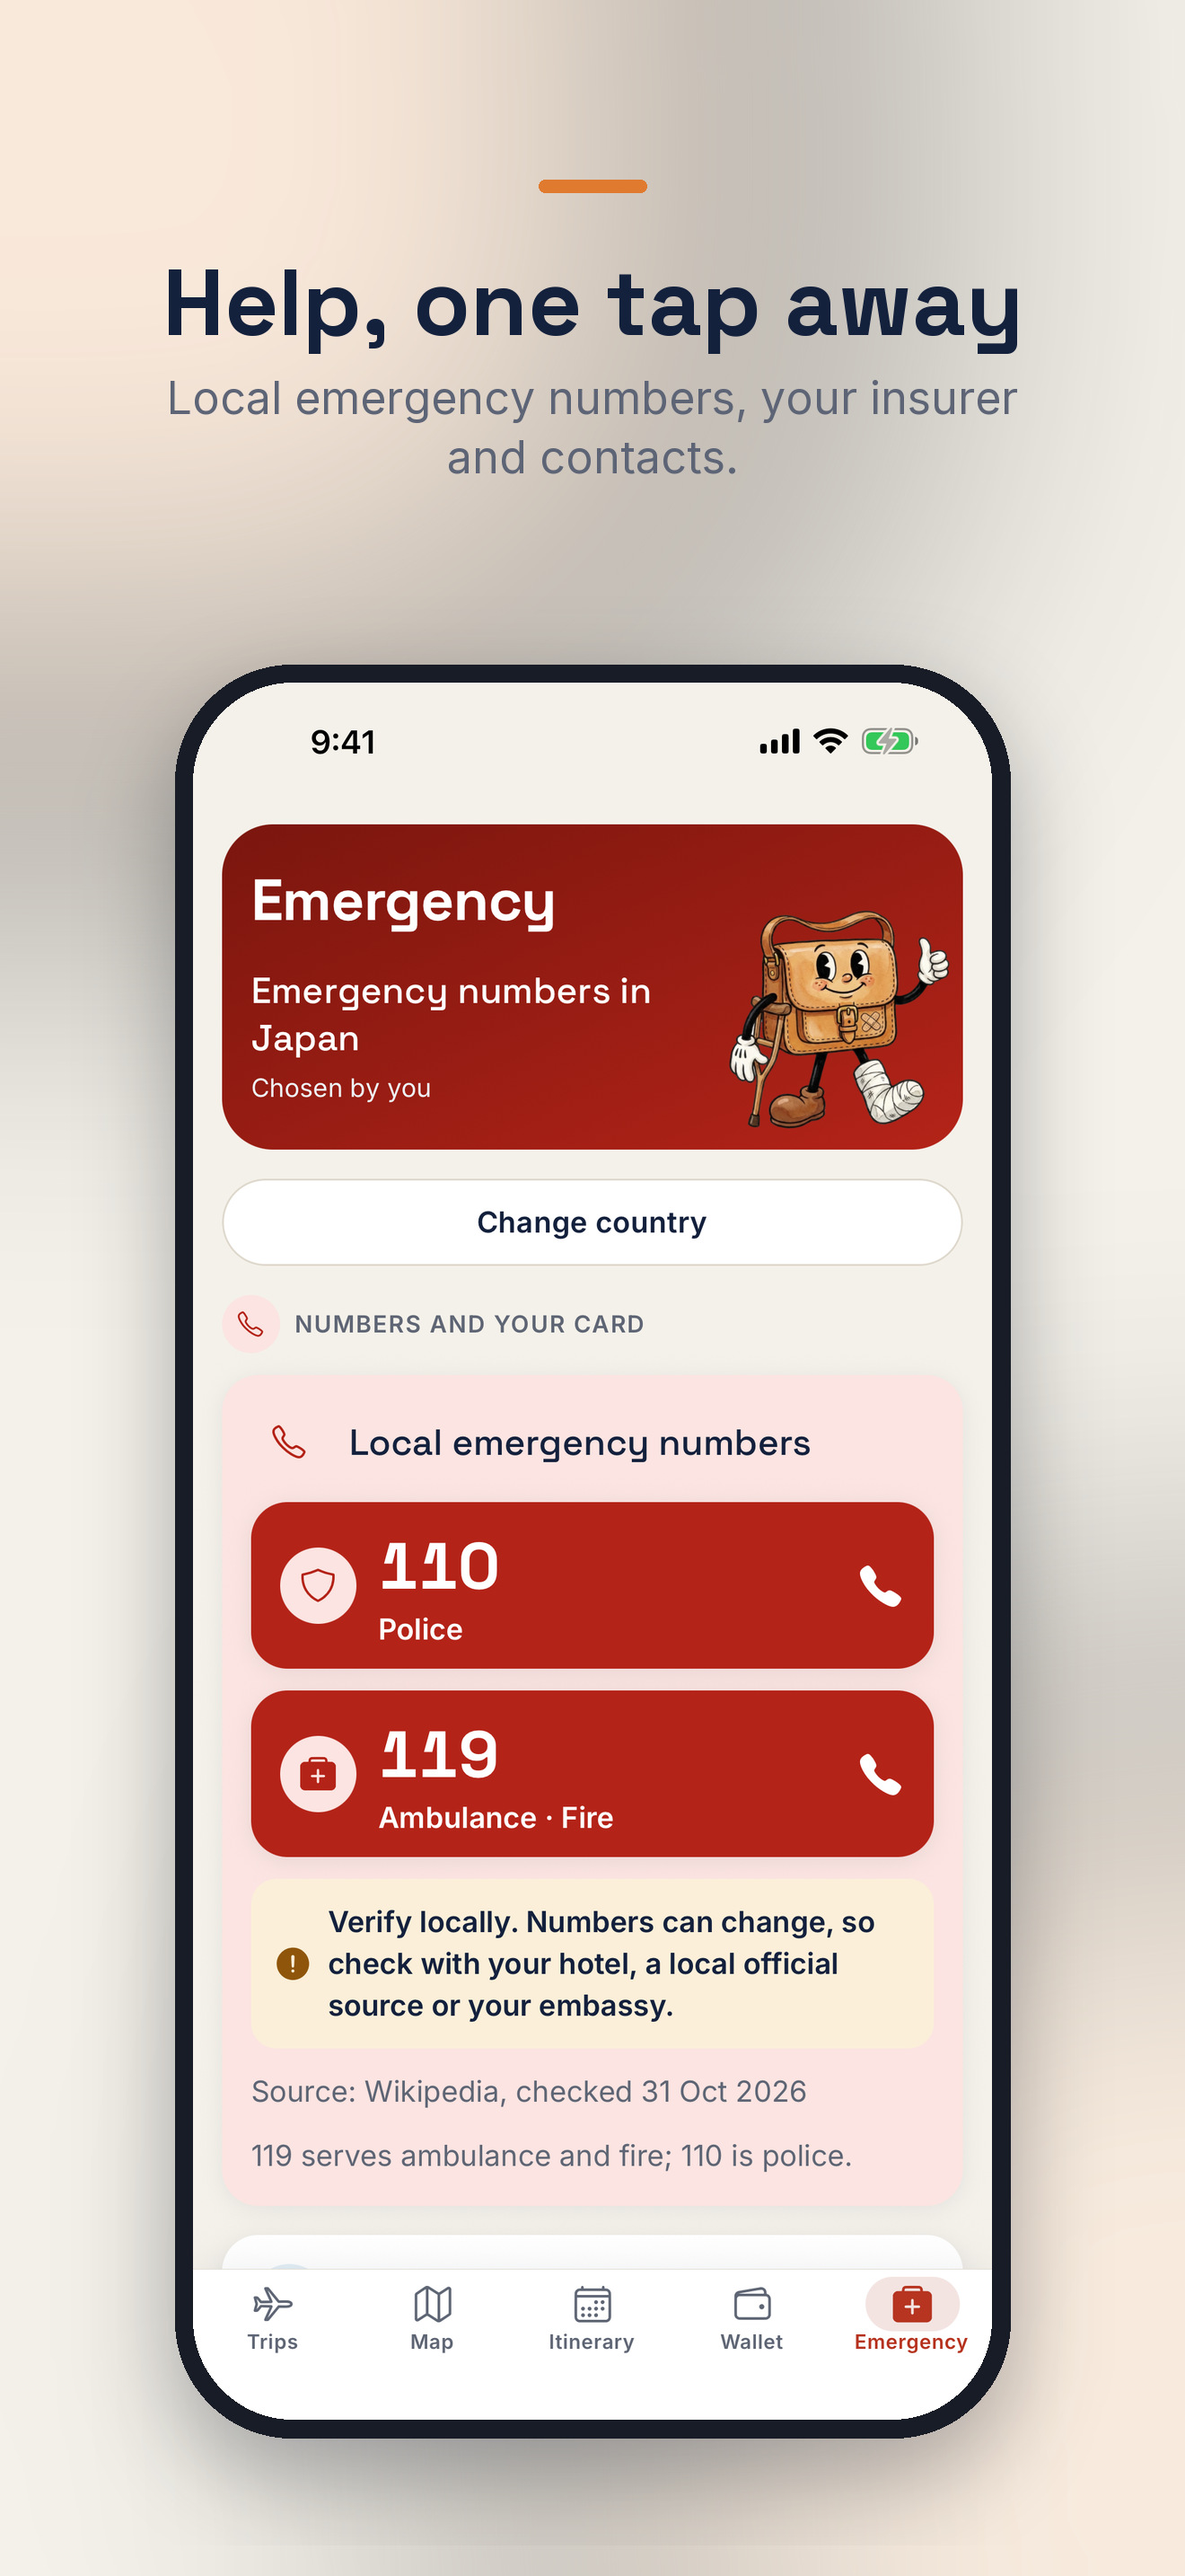
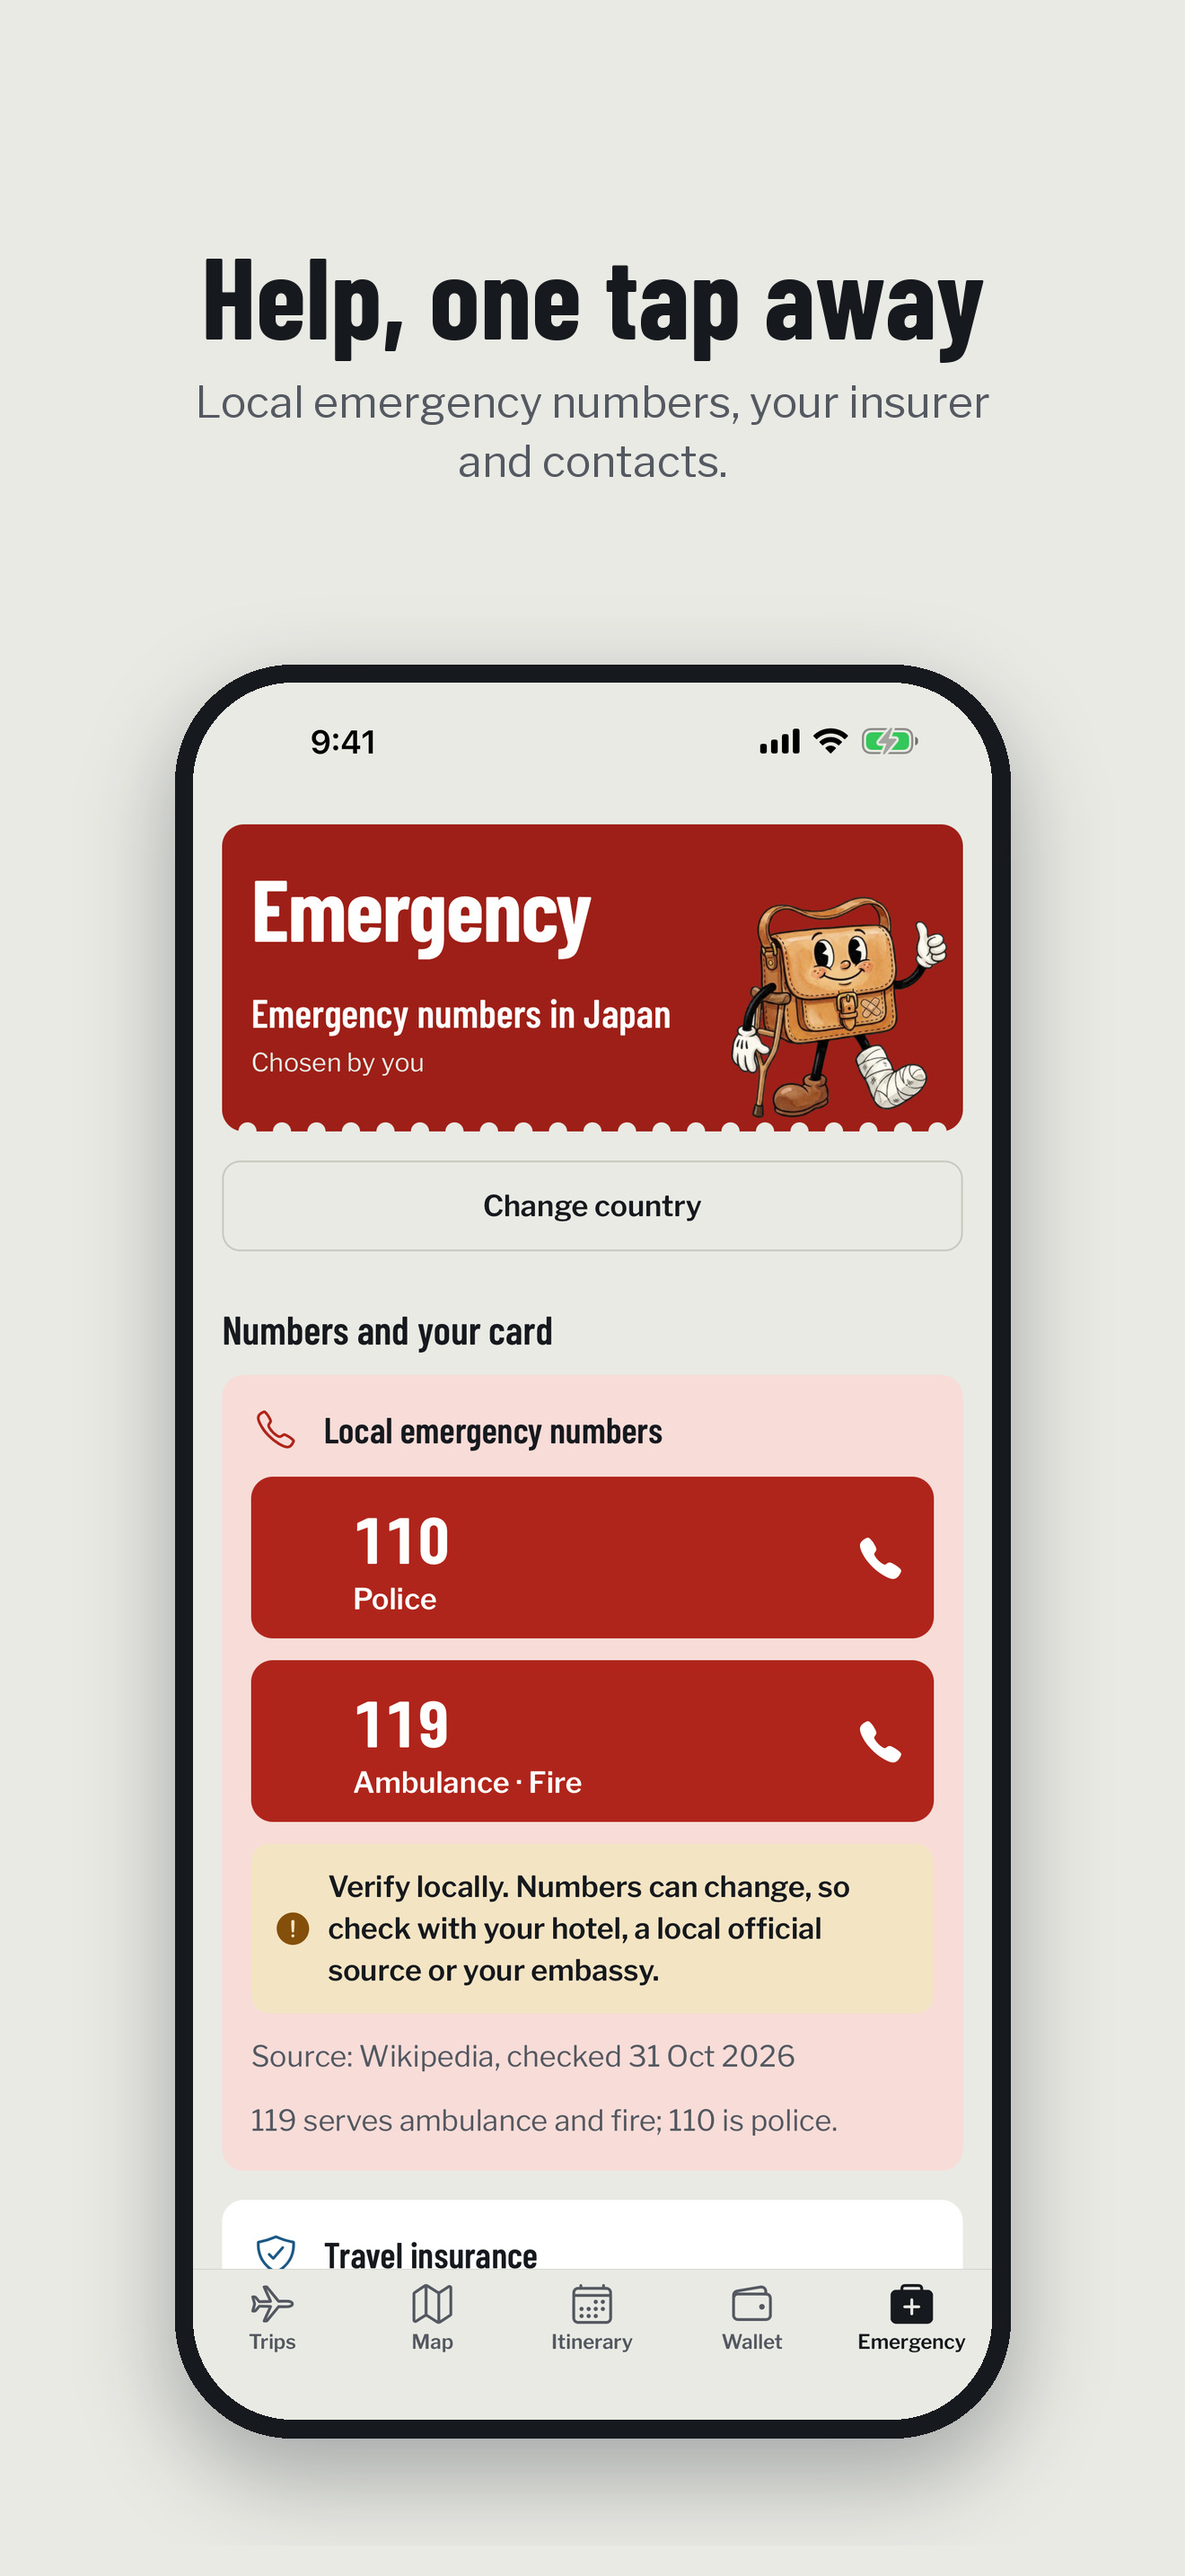
Satchel design pass 3: refreshed 6.9-inch store screenshots, RELEASE build note

diff --git a/apps/satchel/store/screenshots/README.md b/apps/satchel/store/screenshots/README.md
@@ -4,14 +4,14 @@ Upload these six, in this order, to App Store Connect > Satchel > 1.0 > iPhone 6
 
 | # | File | Caption | Raw capture (satchel-store-capture.yml) |
 |---|---|---|---|
-| 1 | 6.9/01-itinerary.jpg | Your itinerary, day by day | 01-itinerary-light, run 43711999817 |
-| 2 | 6.9/02-paste-plans.jpg | Paste your plans, check, save | 08c-paste-scrolled-light, run 43706673082 (same screen, unchanged since; the later run's scroll cut the heading) |
-| 3 | 6.9/03-tickets.jpg | Tickets ready at the gate | 03-ticket-dark, run 43711999817 |
-| 4 | 6.9/04-show-a-local.jpg | Show a local, in 12 languages | 07-phrases-dark, run 43711999817 |
-| 5 | 6.9/05-emergency.jpg | Help, one tap away | 05-emergency-light, run 43711999817 |
-| 6 | 6.9/06-map.jpg | Your trip on the map | 06-map-light, run 43711999817 |
+| 1 | 6.9/01-itinerary.jpg | Your itinerary, day by day | 01-itinerary-light, run 44830827911 |
+| 2 | 6.9/02-paste-plans.jpg | Paste your plans, check, save | 08c-paste-scrolled-light, run 44830827911 |
+| 3 | 6.9/03-tickets.jpg | Tickets ready at the gate | 03-ticket-dark, run 44830827911 |
+| 4 | 6.9/04-show-a-local.jpg | Show a local, in 12 languages | 07-phrases-dark, run 44830827911 |
+| 5 | 6.9/05-emergency.jpg | Help, one tap away | 05-emergency-light, run 44830827911 |
+| 6 | 6.9/06-map.jpg | Your trip on the map | 06-map-light, run 44830827911 |
 
 Real Release simulator captures (build B, capture flag: the app as during the trial), with an invented Tokyo & Kyoto
 trip seeded by `store/capture/seed.py` (invented carrier, hotels, passenger, insurer, fiction-range phone numbers).
-Captions and layout: `store/capture/shots.json` and `compose.py` (Space Grotesk / Inter, SIL OFL; plain rounded
-frame, no device maker's art). RGB JPEG, quality 93.
+Captions and layout: `store/capture/shots.json` and `compose.py` (Barlow Condensed / Libre Franklin, SIL OFL, on the
+app's flat board colour; plain rounded frame, no device maker's art). Design pass 3 (paper ticket stock), Nov 2026. RGB JPEG, quality 93.
